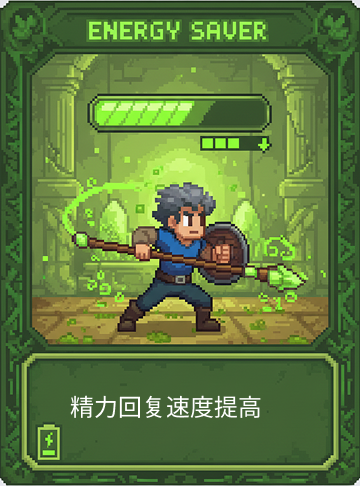
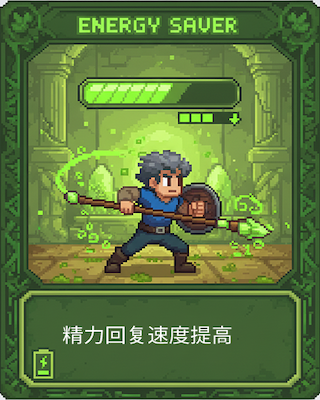
优化图片缩放和渲染设置
- 调整卡片缩放为0.4倍（320x400 → 128x160）
- 调整重随按钮缩放为0.3倍（320x160 → 96x48）
- 优化渲染配置，添加抗锯齿和像素艺术设置
- 设置缩放范围限制（1-4倍）

🤖 Generated with Claude Code

diff --git a/game.js b/game.js
@@ -23,7 +23,25 @@ class Game {
                 mode: Phaser.Scale.FIT,
                 autoCenter: Phaser.Scale.CENTER_BOTH,
                 width: GameConfig.GAME_WIDTH,
-                height: GameConfig.GAME_HEIGHT
+                height: GameConfig.GAME_HEIGHT,
+                // 添加整数缩放以保持像素完美
+                pixelArt: true,
+                autoRound: true,
+                min: {
+                    width: GameConfig.GAME_WIDTH,
+                    height: GameConfig.GAME_HEIGHT
+                },
+                max: {
+                    width: GameConfig.GAME_WIDTH * 4,
+                    height: GameConfig.GAME_HEIGHT * 4
+                },
+                // 使用最近邻插值
+                antialias: false
+            },
+            render: {
+                pixelArt: true,
+                antialias: false,
+                antialiasGL: false
             },
             scene: [PreloadScene, MenuScene, GameScene, GameOverScene]
         };

diff --git a/objects/Shop.js b/objects/Shop.js
@@ -222,8 +222,8 @@ class Shop extends Phaser.Physics.Arcade.Sprite {
             
             // 直接使用卡片图片作为主体
             const cardImage = this.scene.add.image(0, 0, card.image);
-            // 使用1/3缩放，从360x480缩到120x160左右
-            cardImage.setScale(1/3);
+            // 使用0.4等比缩放，从320x400缩到128x160
+            cardImage.setScale(0.4);
             
             // 卡片价格（金币icon + 数字，放在卡片下方）
             const priceContainer = this.scene.add.container(0, 90);
@@ -279,8 +279,8 @@ class Shop extends Phaser.Physics.Arcade.Sprite {
         
         // 直接使用重随按钮图片
         const buttonBg = this.scene.add.image(0, 0, 'reroll_button');
-        // 使用1/3缩放，从300x144缩到100x48左右
-        buttonBg.setScale(1/3);
+        // 使用0.3等比缩放，从320x160缩到96x48
+        buttonBg.setScale(0.3);
         
         buttonContainer.add(buttonBg);
         
